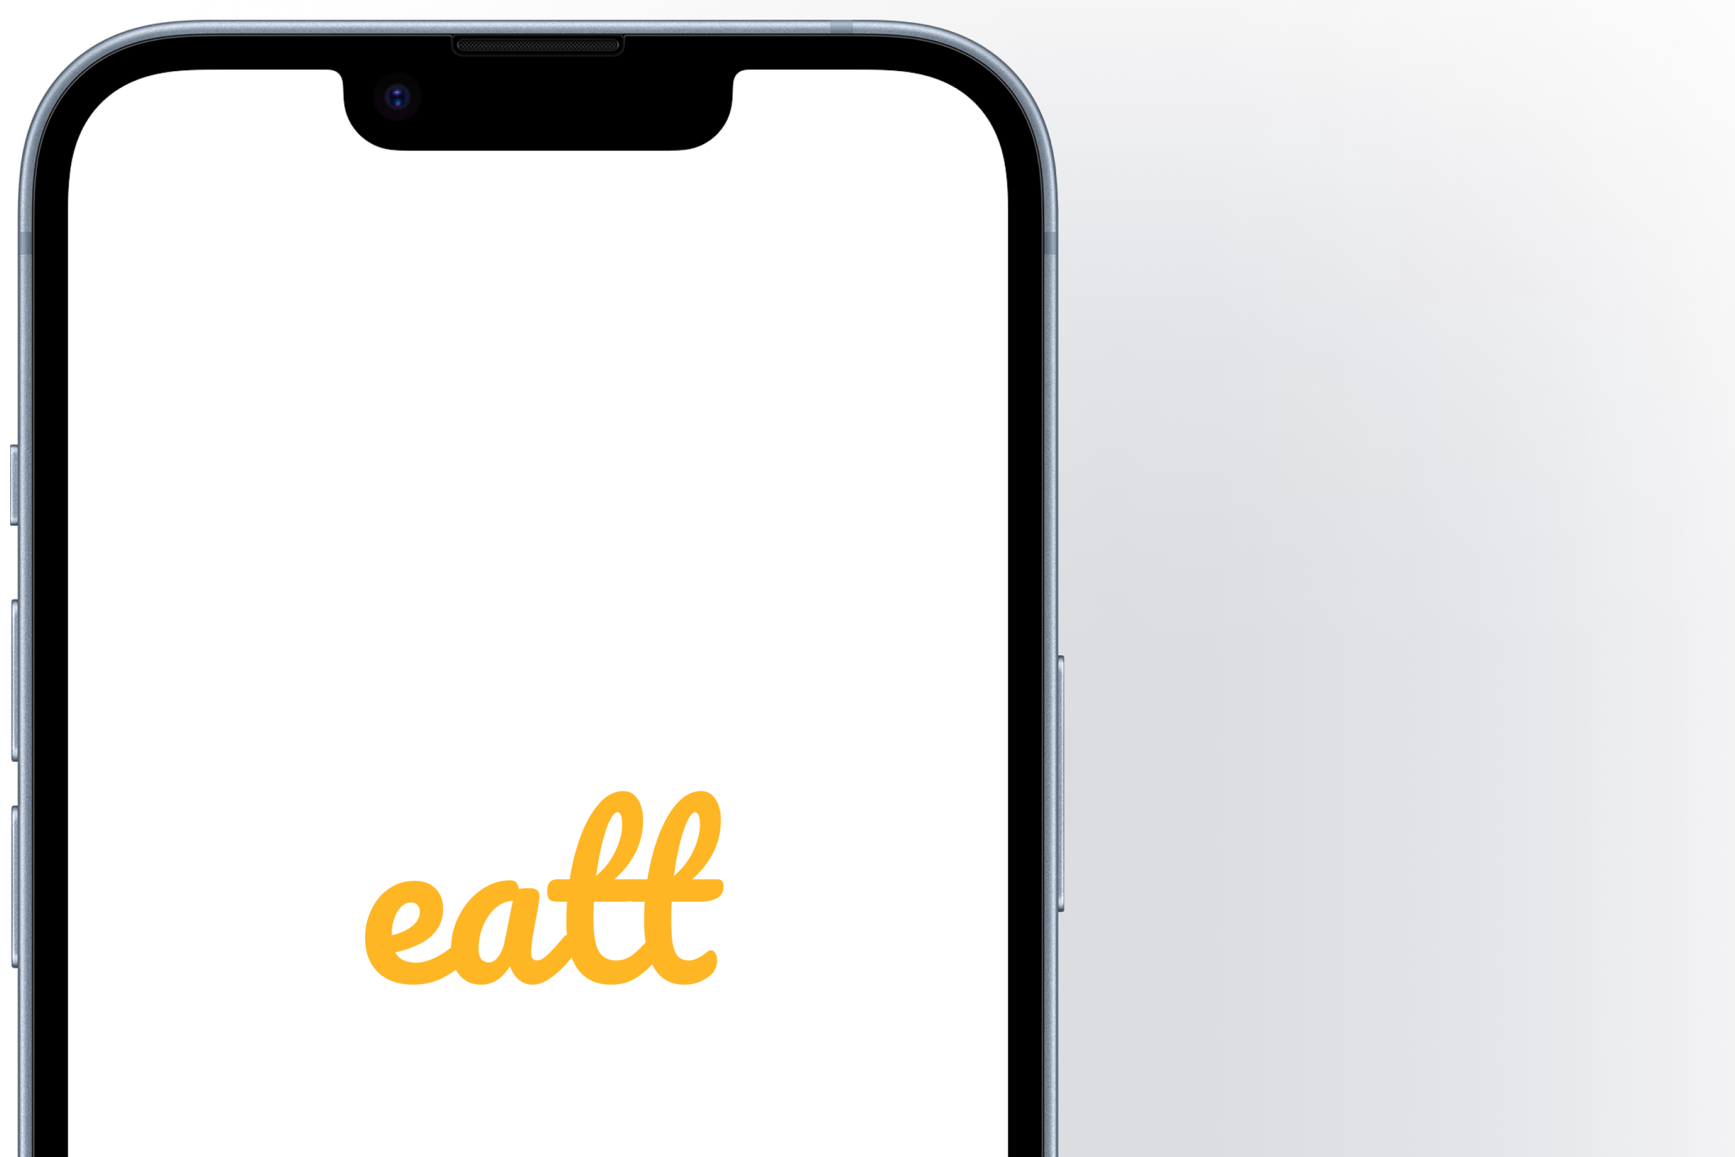
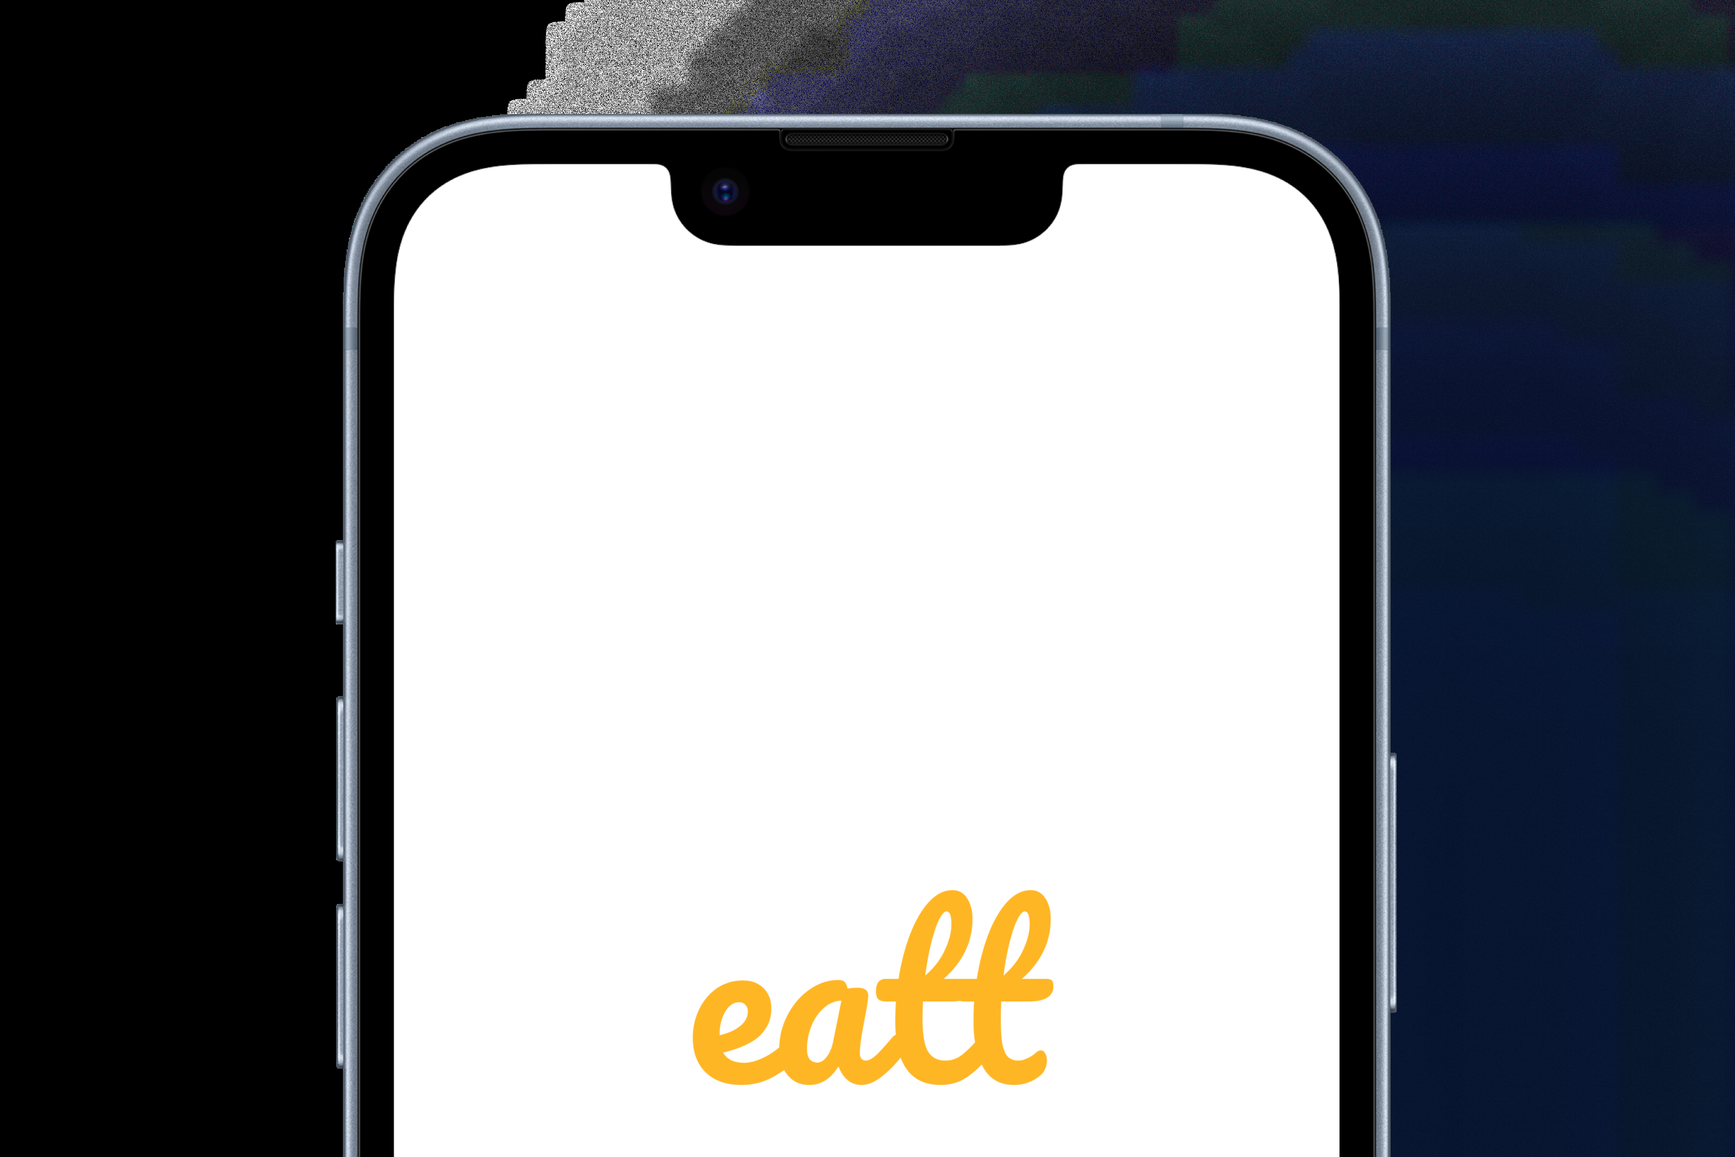
fix: center eatt thumbnail image, update copy, align work card tags
Recrop the eatt hero screenshot so the phone mockup sits centered in
the 3:2 thumbnail instead of shifted left. Update the eatt case study
blurb, and add matching left padding to work card titles/body text so
they align with the tag pills above them.

diff --git a/index.html b/index.html
@@ -185,7 +185,7 @@
           <div class="case-body">
             <div class="tags"><span class="tag">Product Design</span><span class="tag">UX Research</span><span class="tag">Social Dining</span></div>
             <h3>eatt (everyone at the table)</h3>
-            <p>Collecting allergy info from every guest meant chasing replies across scattered texts. Built a way to gather it all in one place and recommend menus that fit everyone.</p>
+            <p>Hosts planning group meals were chasing allergy info through scattered texts, and one missed reply could put someone at real risk. Built a way to collect detailed allergy info from every participant and recommend menus that work for the whole group.</p>
           </div>
         </div>
       </div>

diff --git a/styles.css b/styles.css
@@ -988,6 +988,7 @@ h1, h2, h3, h4 {
 
 .case h3 {
   margin: 0 0 0.625rem;
+  padding-left: 0.6875rem;
   font-family: var(--font-display);
   font-weight: 600;
   font-size: var(--text-lead);
@@ -998,6 +999,7 @@ h1, h2, h3, h4 {
 
 .case p {
   margin: 0;
+  padding-left: 0.6875rem;
   font-size: var(--text-body-sm);
   line-height: var(--leading-body);
   color: var(--color-ink-secondary);
